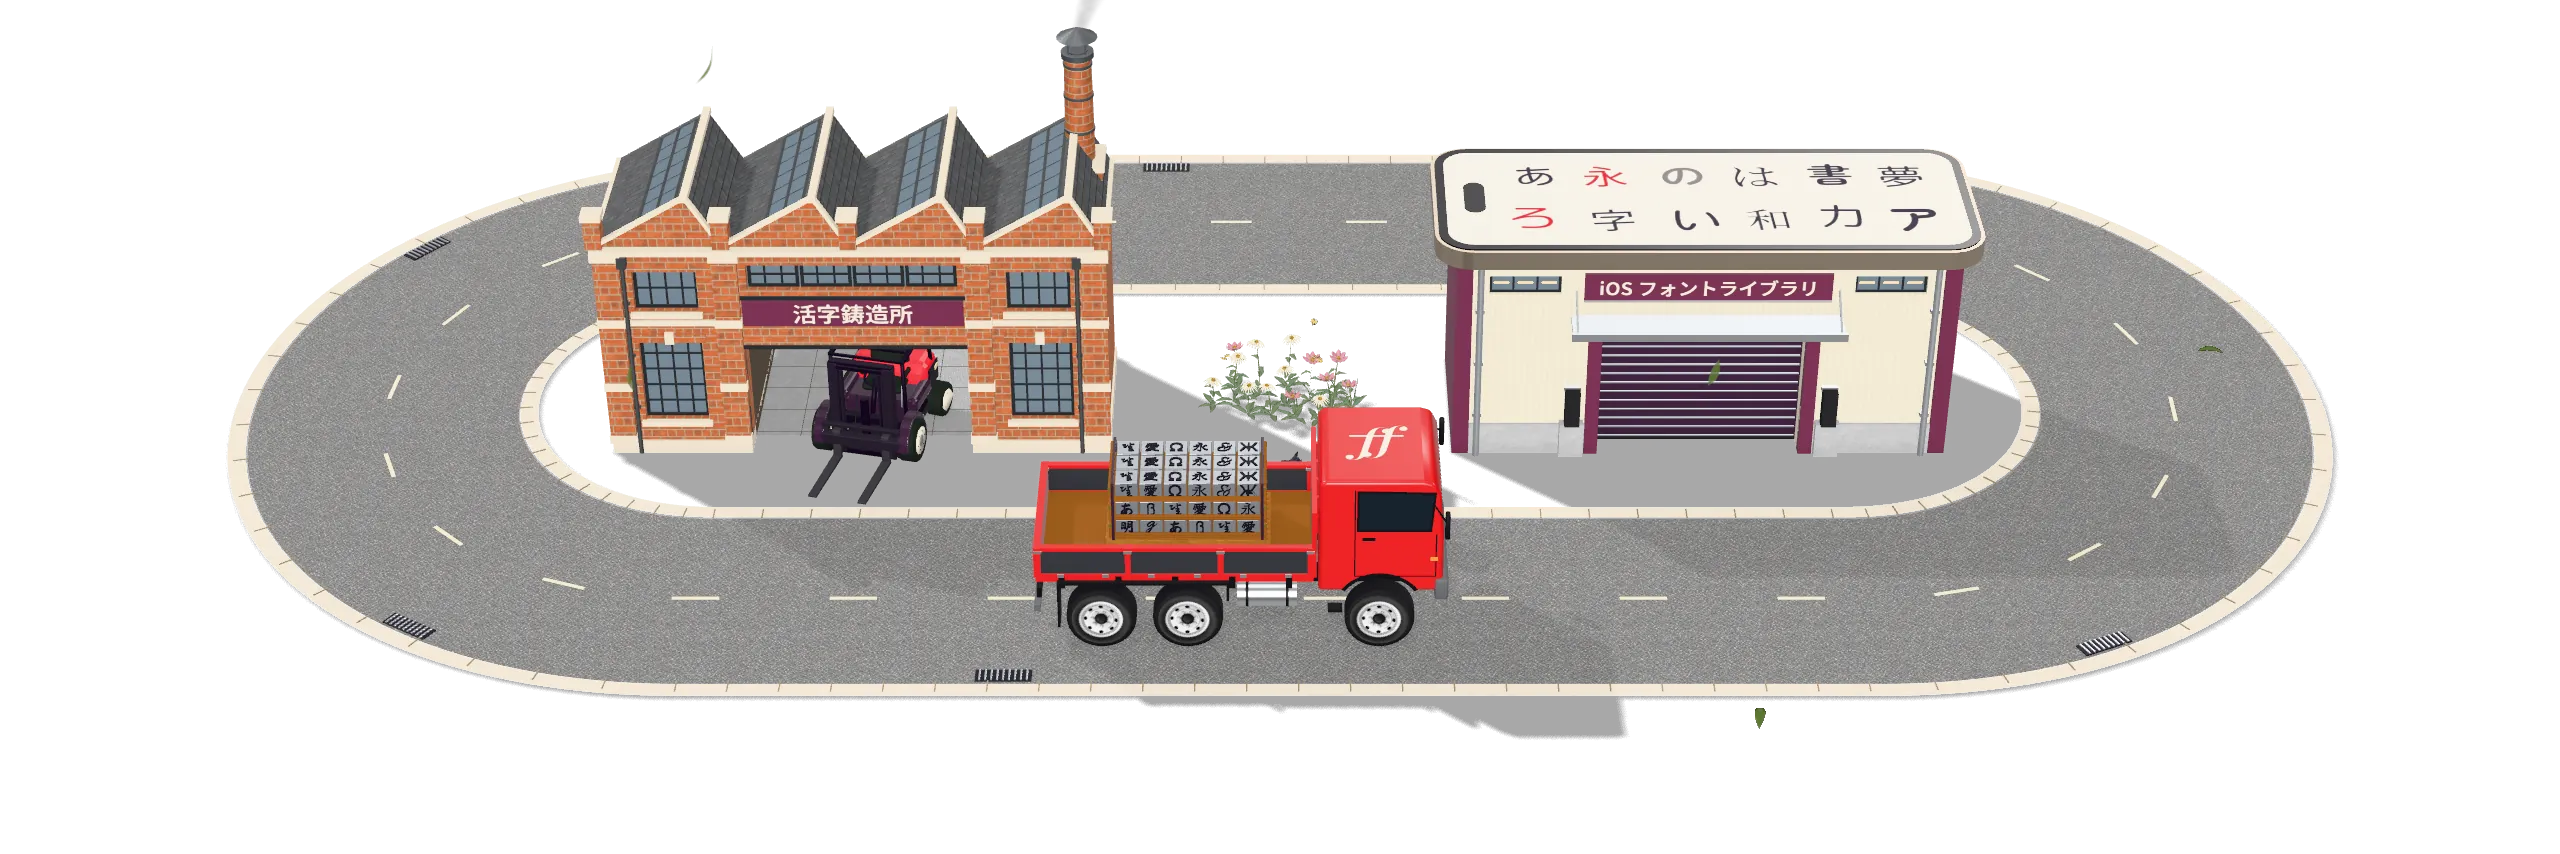
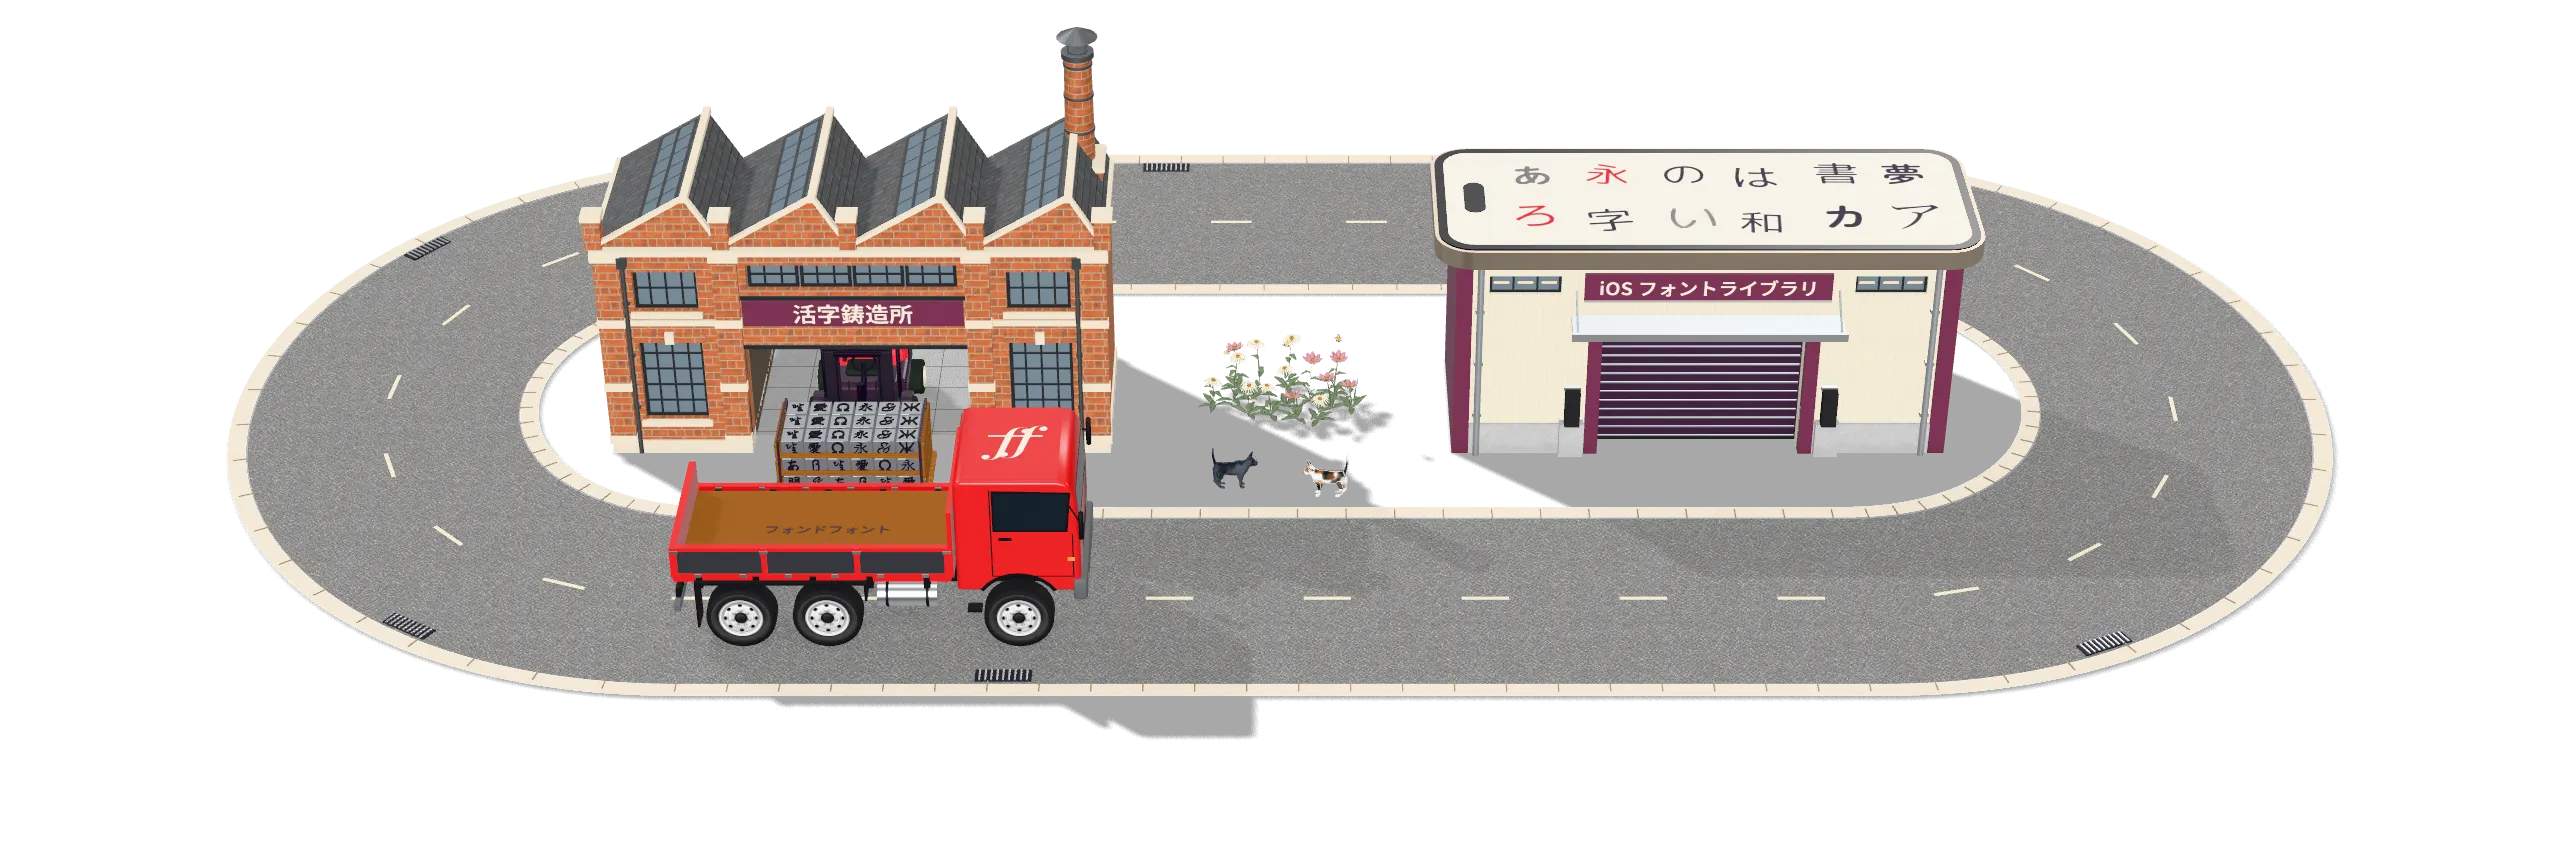
fix(fondfont): align hero poster and add steering wheel loader

diff --git a/src/lib/fondfont/blender-scene.ts b/src/lib/fondfont/blender-scene.ts
@@ -20,6 +20,8 @@ import { RoomEnvironment } from 'three/addons/environments/RoomEnvironment.js';
 type SceneCopy={foundry:string;library:string;name:string};
 const ROOT='/v/fondfont/blender-v2/';
 const CAMPUS='/v/fondfont/blender-v3/';
+// Light from the full 1280px poster export; share it through the initial handoff.
+const POSTER_SUN=new THREE.Vector3(-17.675282317950803,18,-15.42424746850476);
 class CampusAOPass extends GTAOPass{
   constructor(scene:THREE.Scene,camera:THREE.Camera,private alphaSurfaces:THREE.Object3D[]){super(scene,camera);}
   override render(...args:Parameters<GTAOPass['render']>){
@@ -38,7 +40,7 @@ export async function createBlenderFactory(host:HTMLElement,copy:SceneCopy,signa
   const pmrem=new THREE.PMREMGenerator(renderer),room=new RoomEnvironment();
   const env=pmrem.fromScene(room,.06);scene.environment=env.texture;scene.environmentIntensity=.7;room.dispose();pmrem.dispose();
   scene.add(new THREE.HemisphereLight(0xffffff,0x787280,.72));
-  const key=new THREE.DirectionalLight(0xffffff,1.8);key.name='Page sun';key.target.position.set(0,0,0);key.castShadow=true;scene.add(key.target);
+  const key=new THREE.DirectionalLight(0xffffff,1.8);key.name='Page sun';key.position.copy(POSTER_SUN);key.target.position.set(0,0,0);key.castShadow=true;scene.add(key.target);
   const shadowSize=host.clientWidth<600?1024:2048;key.shadow.mapSize.set(shadowSize,shadowSize);Object.assign(key.shadow.camera,{left:-17,right:17,top:14,bottom:-14,near:1,far:50});
   key.shadow.radius=3;key.shadow.normalBias=.001;key.shadow.bias=-.00003;scene.add(key);
   const camera=createCampusCamera();
@@ -145,8 +147,8 @@ export async function createBlenderFactory(host:HTMLElement,copy:SceneCopy,signa
   if(cabLogo)(cabLogo.material as THREE.MeshStandardMaterial).roughness=1;
   label('FlatbedName',copy.name,1.7,.36,'#352a3e',top);
   label('WarehouseSign',`iOS ${copy.library}`,librarySign.userData.width,librarySign.userData.height,'#fff0e4');
-  // Fresh glyph arrangement and typeface rotation on every visit; deterministic shots use seed 47.
-  const roofSeed=host.classList.contains('is-shot')?47:Math.floor(Math.random()*100000);
+  // Match the localized poster's first frame, including glyph order and typefaces.
+  const roofSeed=47;
   const roofGlyphs=createRoofGlyphs(model.getObjectByName('PhoneScreenGlyph')!,code,roofFonts.map(f=>f.family),roofSeed);
   textureSet.add(roofGlyphs.texture);roofGlyphs.materials.forEach(m=>materialSet.add(m));roofGlyphs.geometries.forEach(g=>geometrySet.add(g));
   dustTexture.colorSpace=THREE.SRGBColorSpace;textureSet.add(dustTexture);
@@ -185,10 +187,11 @@ export async function createBlenderFactory(host:HTMLElement,copy:SceneCopy,signa
     .replace('gl_FragColor = sRGBTransferOETF( gl_FragColor );','gl_FragColor = sRGBTransferOETF( gl_FragColor ); gl_FragColor.rgb *= gl_FragColor.a;');
   ao.updateGtaoMaterial({radius:.5,distanceExponent:1.5,thickness:.8,samples:12});ao.blendIntensity=.32;
   composer.addPass(beauty);composer.addPass(ao);composer.addPass(output);
-  let disposed=false;
+  let disposed=false,renderTime=0;
   let leafSkyLine=10,skyPixels=0,canvasWidth=1,canvasHeight=1;
   function dispose(){if(disposed)return;disposed=true;resize.disconnect();petAnimator.dispose();litterMesh.dispose();host.classList.remove('is-ready');if(smokeBlur)smokeBlur.style.opacity='0';skeletonSet.forEach(s=>s.dispose());geometrySet.forEach(g=>g.dispose());materialSet.forEach(m=>m.dispose());textureSet.forEach(t=>t.dispose());env.dispose();key.shadow.dispose();ao.dispose();beauty.dispose();output.dispose();composer.dispose();renderer.dispose();document.fonts.delete(font);roofFonts.forEach(f=>document.fonts.delete(f));}
   const pageSun=document.querySelector<HTMLElement>('[data-nav-sun]');
+  const sunTarget=POSTER_SUN.clone();
   let previousSun='';
   function syncSun(){
     if(!pageSun)return;
@@ -196,18 +199,18 @@ export async function createBlenderFactory(host:HTMLElement,copy:SceneCopy,signa
     const signature=[sun.left,sun.top,sun.width,sun.height,canvas.left,canvas.top,canvas.width,canvas.height,camera.fov,camera.view?.offsetY].join(',');
     if(signature===previousSun)return;
     previousSun=signature;
-    key.position.copy(pageSunPosition(camera,canvas,sun));
-    key.shadow.camera.far=key.position.distanceTo(key.target.position)+30;
+    sunTarget.copy(pageSunPosition(camera,canvas,sun));
+    key.shadow.camera.far=Math.max(sunTarget.length(),POSTER_SUN.length())+30;
     key.shadow.camera.updateProjectionMatrix();
     if(import.meta.env.DEV){
       const pixel=(point:THREE.Vector3)=>{
         const p=point.project(camera);
         return [canvas.left+(p.x+1)*canvas.width/2,canvas.top+(1-p.y)*canvas.height/2];
       };
-      const bearing=key.position.clone();bearing.y=0;
+      const bearing=sunTarget.clone();bearing.y=0;
       const base=pixel(new THREE.Vector3());
-      const tip=pixel(new THREE.Vector3(-key.position.x/key.position.y,0,-key.position.z/key.position.y));
-      host.dataset.sceneSun=JSON.stringify({world:key.position.toArray(),icon:[sun.left+sun.width/2,sun.top+sun.height/2],groundBearing:pixel(bearing),base,shadowPerMeter:[tip[0]-base[0],tip[1]-base[1]],canvas:[canvas.left,canvas.top,canvas.width,canvas.height]});
+      const tip=pixel(new THREE.Vector3(-sunTarget.x/sunTarget.y,0,-sunTarget.z/sunTarget.y));
+      host.dataset.sceneSun=JSON.stringify({world:sunTarget.toArray(),icon:[sun.left+sun.width/2,sun.top+sun.height/2],groundBearing:pixel(bearing),base,shadowPerMeter:[tip[0]-base[0],tip[1]-base[1]],canvas:[canvas.left,canvas.top,canvas.width,canvas.height]});
     }
   }
   function size(){
@@ -237,7 +240,7 @@ export async function createBlenderFactory(host:HTMLElement,copy:SceneCopy,signa
       host.dataset.sceneFrame=JSON.stringify({width:w,height:h,roadWidth:(Math.max(...xs)-Math.min(...xs))*w/2,contentWidth,centerX:w/2,fov:camera.fov,position:camera.position.toArray()});
     }
   }
-  const resize=new ResizeObserver(()=>{size();composer.render();});resize.observe(host);resize.observe(host.querySelector('.font-factory__stage')??host);
+  const resize=new ResizeObserver(()=>{size();render(renderTime);});resize.observe(host);resize.observe(host.querySelector('.font-factory__stage')??host);
   if(pageSun)resize.observe(pageSun);
   const topbar=document.querySelector('.topbar');if(topbar)resize.observe(topbar);
   if(signal.aborted){dispose();return null;}
@@ -251,7 +254,11 @@ export async function createBlenderFactory(host:HTMLElement,copy:SceneCopy,signa
   }
   function render(seconds:number){
     if(disposed)return false;
+    renderTime=seconds;
     syncSun();
+    const sunlight=Math.max(0,Math.min(1,(seconds-.2)/.6));
+    const reveal=sunlight*sunlight*(3-2*sunlight);
+    key.position.lerpVectors(POSTER_SUN,sunTarget,reveal);
     const s=sampleMotion(seconds);
     {
       truck.position.set(s.truck.x,0,s.truck.z);truck.rotation.y=s.truck.angle+s.truck.drift;
@@ -281,10 +288,10 @@ export async function createBlenderFactory(host:HTMLElement,copy:SceneCopy,signa
     windTime.value=seconds;
     const fallen=litter.sample(seconds,leafSkyLine);
     leaves.forEach((leaf,i)=>{
-      const p=sampleLeaf(seconds,i,leafSkyLine);leaf.visible=p.opacity>.005&&!fallen.captured.has(p.id);
+      const p=sampleLeaf(seconds,i,leafSkyLine);leaf.visible=p.opacity*reveal>.005&&!fallen.captured.has(p.id);
       leaf.position.set(p.x,p.y,p.z);leaf.rotation.set(p.pitch,p.yaw,p.roll,'YXZ');
       leaf.scale.set(p.size*leafTexture.image.width/leafTexture.image.height,p.size,1);
-      (leaf.material as THREE.MeshBasicMaterial).opacity=p.opacity*.85;
+      (leaf.material as THREE.MeshBasicMaterial).opacity=p.opacity*.85*reveal;
     });
     if(fallen.leaves.length>litterCapacity){
       const previous=litterMesh;while(litterCapacity<fallen.leaves.length)litterCapacity*=2;
@@ -299,7 +306,8 @@ export async function createBlenderFactory(host:HTMLElement,copy:SceneCopy,signa
     });
     litterMesh.count=fallen.leaves.length;litterMesh.instanceMatrix.needsUpdate=true;
     if(import.meta.env.DEV)host.dataset.leafLitter=JSON.stringify({count:fallen.leaves.length,deck:fallen.deckCount,kicks:fallen.kickCount,airborne:fallen.leaves.filter(p=>p.airborne).length});
-    smoke.update(seconds);roofGlyphs.update(seconds);
+    // Sky extent varies by viewport; introduce its effects only after the poster handoff.
+    smoke.update(seconds,reveal);roofGlyphs.update(seconds);
     const life=gardenLife.sample(seconds);petAnimator.update(life,seconds);
     butterflies.forEach((butterfly,i)=>{
       const p=sampleButterfly(seconds,i);butterfly.position.set(p.x,p.y,p.z);butterfly.rotation.set(0,p.yaw,p.roll);butterfly.scale.setScalar(p.size);
@@ -311,7 +319,7 @@ export async function createBlenderFactory(host:HTMLElement,copy:SceneCopy,signa
       const width=(.08+.15*h)/metresPerPixel(camera,world,canvasHeight)*3.8,height=width*1.45;
       smokeBlur.style.width=`${width}px`;smokeBlur.style.height=`${height}px`;
       smokeBlur.style.transform=`translate(${(p.x+1)*canvasWidth/2-width/2}px,${(1-p.y)*canvasHeight/2-skyPixels-height/2}px)`;
-      smokeBlur.style.opacity=String(host.classList.contains('is-export')?0:.5+.15*Math.sin(seconds*.55));
+      smokeBlur.style.opacity=String(host.classList.contains('is-export')?0:(.5+.15*Math.sin(seconds*.55))*reveal);
     }
     composer.render();return true;
   }

diff --git a/src/lib/fondfont/smoke.ts b/src/lib/fondfont/smoke.ts
@@ -5,7 +5,7 @@ import { WIND_X } from './nature.mjs';
 export function createChimneySmoke(origin:THREE.Vector3){
   const geometry=new THREE.BoxGeometry(2.4,3.4,1.4);
   geometry.translate(.7,1.7,0);
-  const uniforms={uTime:{value:0},uWind:{value:WIND_X}};
+  const uniforms={uTime:{value:0},uWind:{value:WIND_X},uOpacity:{value:1}};
   const material=new THREE.ShaderMaterial({
     uniforms,transparent:true,depthWrite:false,toneMapped:false,
     vertexShader:`varying vec3 vLocal;varying vec3 vWorld;void main(){vLocal=position;vWorld=(modelMatrix*vec4(position,1.0)).xyz;gl_Position=projectionMatrix*modelViewMatrix*vec4(position,1.0);}`,
@@ -13,7 +13,7 @@ export function createChimneySmoke(origin:THREE.Vector3){
       precision highp float;
       varying vec3 vLocal;
       varying vec3 vWorld;
-      uniform float uTime,uWind;
+      uniform float uTime,uWind,uOpacity;
       float hash(vec3 p){return fract(sin(dot(p,vec3(127.1,311.7,74.7)))*43758.5453);}
       float noise(vec3 p){
         vec3 i=floor(p),f=fract(p);f=f*f*(3.0-2.0*f);
@@ -43,10 +43,10 @@ export function createChimneySmoke(origin:THREE.Vector3){
           p+=ray*.065;
         }
         if(alpha<.001)discard;
-        gl_FragColor=vec4(vec3(.18+.04*light/max(alpha,.001)),alpha*.85);
+        gl_FragColor=vec4(vec3(.18+.04*light/max(alpha,.001)),alpha*.85*uOpacity);
       }`,
   });
   const mesh=new THREE.Mesh(geometry,material);mesh.position.copy(origin);
   mesh.name='Volumetric chimney smoke';mesh.frustumCulled=false;
-  return{mesh,geometry,material,update(seconds:number){uniforms.uTime.value=seconds;}};
+  return{mesh,geometry,material,update(seconds:number,opacity=1){uniforms.uTime.value=seconds;uniforms.uOpacity.value=opacity;mesh.visible=opacity>0;}};
 }

diff --git a/docs/reviews/fondfont-hero-loading-20261008/findings.md b/docs/reviews/fondfont-hero-loading-20261008/findings.md
@@ -1,0 +1,15 @@
+# FondFont hero first-frame placeholder and loading — 2026-10-08
+
+Seven localized posters now use the production renderer at `sceneTime=0`, with the same roof glyph seed (47) as live pages. Cats retain randomized later behavior; their initial poses are identical. Reduced motion uses frame zero as well.
+
+The initial light is the original 1280px full-poster export light. After the 200ms poster handoff, light blends to the responsive page sun over 600ms. Smoke and airborne leaves also fade in over that interval because their sky extent depends on viewport height. Resizing renders the current scene time again. This keeps initial scene content consistent without removing the page sun or sky effects from subsequent animation.
+
+Loading feedback is a prominent steering-wheel loader centered over the image, with a 64px, 50%-opaque circular background and no visible text. The three-spoke wheel steers between −40° and +40° every 1.6 seconds. Its accessible label is localized in all seven languages. It appears only while the visible scene is actually loading, clears on readiness/failure, and exposes busy state. Reduced motion keeps the loader without rotation. Save-data and no-JavaScript retain the static poster without a loading indicator. The animation clock starts after readiness.
+
+Posters are full transparent 2560×854 exports, not crops. To refresh: run `scripts/capture-fondfont-scene.mjs` at 1280×900 for every locale with `?sceneTime=0&scenePoster`, then encode the PNGs with Sharp WebP quality 80 / alpha quality 100. Keep poster light and seed synchronized with the renderer.
+
+Validation: production build (52 pages), existing sun and scene/motion checks, desktop/mobile browser captures, held and failed model requests, reduced motion, save-data, no-JavaScript, and an ordinary live-route readiness-clock check. Browser evidence is in this directory. Raster quality varies with the renderer's existing desktop/mobile pixel-ratio budgets; matching scene content does not imply byte-identical screenshots.
+
+Advisor: adopted the approach review's shared initial-light recommendation. The clock was already anchored to readiness and was verified with an artificially held model request. Sky-effect staging additionally addresses the observed smoke/leaf difference between the full export and the taller live canvas.
+
+Completion advisor found no blocking correctness or scope issue. Its remaining condition was the final build and post-refinement browser checks; both passed, including the production preview. No implementation changes were needed after that review.

diff --git a/docs/reviews/fondfont-hero-loading-20261008/completion-brief.md b/docs/reviews/fondfont-hero-loading-20261008/completion-brief.md
@@ -1,0 +1,5 @@
+Read-only completion review. User asks: FondFont hero placeholder must match starting frame and add loading effect. Astro repo /Users/realazy/Projects/Sites/lazyapps. No deployment or commit requested. Inspect actual git diff and cited screenshots as useful. Do not edit.
+Durable changes: src/components/FondFontFactoryScene.astro adds 7 localized loading labels and CSS spinner shown only during active visible initialization; aria-busy true while pending; finally clears on readiness/error, noJS/saveData no spinner, reduced-motion spinner static; reduced still now t0. Existing rAF starts clock after readiness. Poster/canvas fade shortened350->200ms.
+src/lib/fondfont/blender-scene.ts fixed roof seed47; canonical poster light from real1280px export used for first200ms, smooth transition to viewport DOM-sun from .2-.8s; resize rerenders current time. Cats preserve random later behavior but t0 identical. Airborne leaves and smoke fade in in same .2-.8s interval because sky extent varies per viewport and would otherwise pop on handoff. src/lib/fondfont/smoke.ts supports opacity uniform for that effect. All seven 2560x854 transparent posters recaptured from actual renderer at t0, WebP q80/alpha100 (about218KB each, previous~208KB).
+Validation: npm run build passed before last small smoke/leaf refinement; final build is running now. Existing check-fondfont-page-sun.mjs and check-fondfont-three.mjs passed. Real Chrome CDP script held model requests, verified visible busy spinner then hidden at first frame, failed-model fallback, reduced-motion static t0, saveData and noJS no spinner; held model1.8s verified ordinary live first visible time0.050, advancing normally. Same browser checks are being repeated after final sky-effect change. Fresh screenshots in docs/reviews/fondfont-hero-loading-20261008: desktop/mobile-poster.png vs desktop/mobile-first-frame.png, desktop/mobile-loading.png. Rasterization differs with existing DPR budgets; not claiming pixel-identical images across devices. Full report: findings.md. Approach consult: approach-advisor.md; its lighting concern was adopted, clock concern verified.
+One decision: Is there a concrete blocking correctness or scope issue in this implementation that must be fixed before calling this user request complete? Focus on first-frame continuity and loading lifecycle; distinguish blockers from optional improvements. Please concise, no broad audits.

diff --git a/docs/reviews/fondfont-hero-loading-20261008/approach-brief.md b/docs/reviews/fondfont-hero-loading-20261008/approach-brief.md
@@ -1,0 +1,4 @@
+Task: User explicitly requests FondFont hero placeholder match its starting frame, with a loading effect. Repository /Users/realazy/Projects/Sites/lazyapps, Astro site. Read-only independent consult; do not edit.
+Evidence: src/components/FondFontFactoryScene.astro shows seven localized poster WebPs until is-ready; lazy initializes WebGL when visible, honors saveData, keeps static WebGL under reduced motion. src/lib/fondfont/blender-scene.ts renders(0) then adds is-ready; roof seed is random except is-shot seed47; garden seed is random but actors start identically. Existing posters are at12.8s. CSS aligns full poster road span to responsive canvas via fitLens, canvas extends above stage for leaves. Lighting intentionally varies with DOM sun position.
+Proposed approach: refresh all seven full 2560x854 transparent posters using actual dev renderer ?sceneTime=0&scenePoster (is-shot seed47), use fixed roof seed47 on live pages too so glyph placement/typefaces start identically; preserve randomized garden behavior because t0 identical. Change reduced-motion still to0. Add small localized CSS spinner/loading label at stage bottom only while actual lazy import/model load is pending, aria-busy while pending, hidden on readiness/error/saveData; disable rotation under reduced-motion; no-JS retains poster without spinner. Keep existing fallback/error behavior and responsive framing. Verify via real headless browser slow/failed load and desktop/mobile initial handoff, reduced-motion/saveData, plus production build. No deployment/commit requested.
+Decision question: Is this the smallest sound implementation of matching first-frame placeholder and honest loading feedback, or is there a concrete material flaw to fix before implementation? Focus on actual lifecycle and visual consistency, not broader refactors. Please be concise.

diff --git a/docs/FONDFONT_MEDIA.md b/docs/FONDFONT_MEDIA.md
@@ -1333,3 +1333,13 @@ geometry, so building, vehicle and shadow perspective agree.
   - small header and favicon icons (`prepare-fondfont-icon-web.py`).
 
 Evidence, checks and size table: `docs/reviews/fondfont-campus-v3-20261008/findings.md`.
+
+### First-frame posters and loading — 2026-10-08
+
+Seven localized posters now show frame zero with the live roof glyph seed (47).
+The initial light is shared with the poster, then blends to the responsive page
+sun after the 200ms handoff; viewport-dependent smoke and leaves fade in with it.
+Reduced motion also uses frame zero. Visible scene initialization shows a prominent
+centered loader without visible text, cleared on readiness or failure. Save-data and
+no-JavaScript keep the poster without a spinner. Export settings and browser
+evidence: `docs/reviews/fondfont-hero-loading-20261008/findings.md`.

diff --git a/docs/reviews/fondfont-hero-loading-20261008/approach-advisor.md b/docs/reviews/fondfont-hero-loading-20261008/approach-advisor.md
@@ -1,0 +1,5 @@
+Keep the plan, but resolve initial lighting consistency before regenerating posters. Fixed seed47 matches geometry; DOM-dependent sunlight can still cause a visible color/shadow jump. Capture and live `render(0)` should share initial lighting, then transition to DOM-driven lighting after the handoff.
+
+One lifecycle detail is missing from the briefing: the animation clock’s origin. Start it at readiness so slow imports/model loading cannot make the first visible animated frame jump ahead of the poster.
+
+Otherwise, the proposed loading state, reduced-motion handling, fallbacks, and verification are appropriately scoped.

diff --git a/docs/reviews/fondfont-hero-loading-20261008/completion-advisor.md b/docs/reviews/fondfont-hero-loading-20261008/completion-advisor.md
@@ -1,0 +1,5 @@
+No concrete blocking correctness or scope issue found.
+
+The diff and desktop/mobile screenshots support first-frame continuity: geometry, glyphs, poses, and initial lighting align; viewport-dependent effects appear after the handoff. Loading clears on readiness or failure, with appropriate reduced-motion, save-data, and no-JavaScript behavior.
+
+Finish the final build and post-refinement browser checks before declaring completion. Assuming they pass, no further changes are required. Remaining rasterization differences are optional polish.
